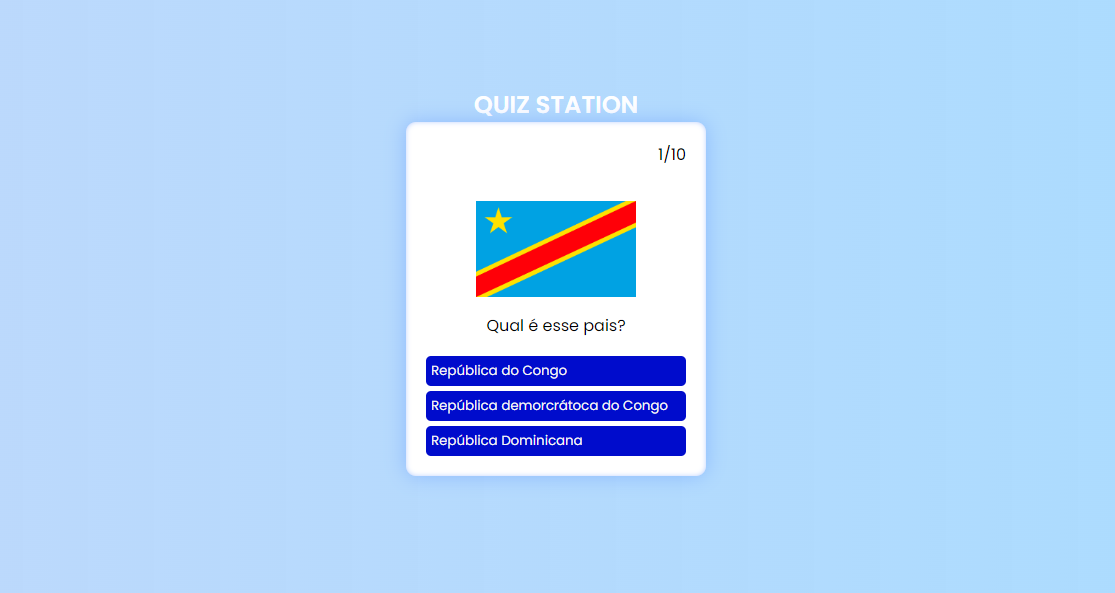
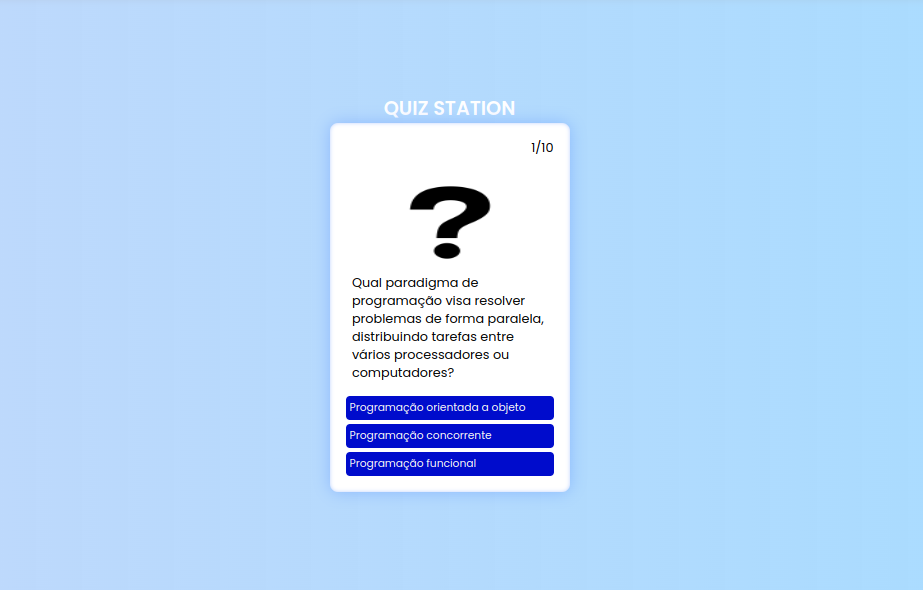
Final Project

Changed region(s): [[0.3337, 0.1525, 0.6371, 0.8542]]

diff --git a/mocks/questions.js b/mocks/questions.js
@@ -1,108 +1,108 @@
 export default [
     {
-        imageUrl: "https://external-content.duckduckgo.com/iu/?u=https%3A%2F%2Fwww.worldatlas.com%2Fimg%2Fflag%2Fcd-flag.jpg&f=1&nofb=1&ipt=be5a722e93254a884f299d0f88c7fded20310a6f4d112042d4ceccd46a54658c&ipo=images",
-        question: "Qual é esse pais?",
+        imageUrl: "https://creazilla-store.fra1.digitaloceanspaces.com/emojis/46353/question-mark-emoji-clipart-md.png",
+        question: "Qual paradigma de programação visa resolver problemas de forma paralela, distribuindo tarefas entre vários processadores ou computadores?",
         answers: [
-            {option: "República do Congo", correct:false},
-            {option: "República demorcrátoca do Congo", correct:true},
-            {option: "República Dominicana", correct:false},
+            {option: "Programação orientada a objeto", correct:false},
+            {option: "Programação concorrente", correct:true},
+            {option: "Programação funcional", correct:false},
         ],
     },
 
     {
-        imageUrl: "https://external-content.duckduckgo.com/iu/?u=https%3A%2F%2Fcdn.britannica.com%2F77%2F7177-050-246CAF00%2FFlag-Burundi.jpg&f=1&nofb=1&ipt=f5b624e2e3538855cc103bff78f9f443e329ab182e2b81206f06b2d541711ed3&ipo=images",
-        question: "Qual é esse pais?",
+        imageUrl: "https://creazilla-store.fra1.digitaloceanspaces.com/emojis/46353/question-mark-emoji-clipart-md.png",
+        question: "Qual linguagem de programação é considerada a primeira linguagem de alto nível?",
         answers: [
-            {option: "Eritreia", correct:false},
-            {option: "Jamaica", correct:false},
-            {option: "Burundi", correct:true},
+            {option: "Ada", correct:false},
+            {option: "Plankalkül", correct:false},
+            {option: "FORTRAN", correct:true},
         ],
     },
     
     {
-        imageUrl: "https://external-content.duckduckgo.com/iu/?u=https%3A%2F%2Fflagpedia.net%2Fdata%2Fflags%2Fw1600%2Frw.png&f=1&nofb=1&ipt=279fdef795c3ad3e1c995709e27d468f2023ddd6335d395f07afa926977984b6&ipo=images",
-        question: "Qual é esse pais?",
+        imageUrl: "https://creazilla-store.fra1.digitaloceanspaces.com/emojis/46353/question-mark-emoji-clipart-md.png",
+        question: "Qual linguagem de programação foi criada para atender às demandas da inteligência artificial e do aprendizado de máquina, combinando expressividade e poder computacional?",
         answers: [
-            {option: "Palau", correct:false},
-            {option: "Ruanda", correct:true},
-            {option: "Macedónia do Norte", correct:false},
+            {option: "R", correct:false},
+            {option: "Python", correct:true},
+            {option: "Prolog", correct:false},
         ],
         
     },
 
     {
-        imageUrl: "https://external-content.duckduckgo.com/iu/?u=https%3A%2F%2Fupload.wikimedia.org%2Fwikipedia%2Fcommons%2Fthumb%2F3%2F38%2FFlag_of_Tanzania.svg%2F1200px-Flag_of_Tanzania.svg.png&f=1&nofb=1&ipt=826587f2d005701229ca1e4ff4aa7917856477228cd76a71ac8c739e7965c986&ipo=images",
-        question: "Qual é esse pais?",
+        imageUrl: "https://creazilla-store.fra1.digitaloceanspaces.com/emojis/46353/question-mark-emoji-clipart-md.png",
+        question: "Qual foi a principal contribuição de Ada Lovelace para a programação?",
         answers: [
-            {option: "Tanzânia", correct:true},
-            {option: "Timor Leste", correct:false},
-            {option: "Trindade e Tobago", correct:false},
+            {option: "Escreveu o primeiro algoritmo para uma máquina de computação.", correct:true},
+            {option: "Criou a primeira linguagem de programação.", correct:false},
+            {option: "Popularizou o uso de cartões perfurados para entrada de dados.", correct:false},
         ],
         
     },
 
     {
-        imageUrl: "https://external-content.duckduckgo.com/iu/?u=http%3A%2F%2Fflags.fmcdn.net%2Fdata%2Fflags%2Fw1160%2Fvu.png&f=1&nofb=1&ipt=8ea1e827f35801944411b13dbaafd18c1abf64c493d0582c3499344c40b52b36&ipo=images",
-        question: "Qual é esse pais?",
+        imageUrl: "https://creazilla-store.fra1.digitaloceanspaces.com/emojis/46353/question-mark-emoji-clipart-md.png",
+        question: "Qual paradigma de programação enfatiza a manipulação de dados e a transformação de funções em outras funções?",
         answers: [
-            {option: "Eritreia", correct:false},
-            {option: "Guiana", correct:false},
-            {option: "Vanuatu", correct:true},
+            {option: "Programação orientada a objeto", correct:false},
+            {option: "Programação imperativa", correct:false},
+            {option: "Programação funcional", correct:true},
         ],
         
     },
 
     {
-        imageUrl: "https://external-content.duckduckgo.com/iu/?u=https%3A%2F%2Fflagsweb.com%2Fimages%2FPNG%2FFlag_of_Seychelles.png&f=1&nofb=1&ipt=63be07da53056d49b4bba4d65140d621ea5452fac47d46f4a63aa939da96a761&ipo=images",
-        question: "Qual é esse pais?",
+        imageUrl: "https://creazilla-store.fra1.digitaloceanspaces.com/emojis/46353/question-mark-emoji-clipart-md.png",
+        question: "Em qual década surgiram as primeiras linguagens de programação modernas, como FORTRAN e COBOL?",
         answers: [
-            {option: "Ilhas Marshal", correct:false},
-            {option: "Seychelles", correct:true},
-            {option: "Ilhas Salomão", correct:false},
+            {option: "Década de 1940", correct:false},
+            {option: "Década de 1950", correct:true},
+            {option: "Década de 1960", correct:false},
         ],
         
     },
 
     {
-        imageUrl: "https://external-content.duckduckgo.com/iu/?u=https%3A%2F%2Fwww.medianigeria.com%2Fwp-content%2Fuploads%2F2018%2F02%2FPhilippines-Flag-1067x534.png&f=1&nofb=1&ipt=5fe5b27fd6ce168a05aeec0b3a825f6d881db6feef6e28a467185f15e5273732&ipo=images",
-        question: "Qual é esse pais?",
+        imageUrl: "https://creazilla-store.fra1.digitaloceanspaces.com/emojis/46353/question-mark-emoji-clipart-md.png",
+        question: "Qual linguagem de script foi criada para adicionar interatividade a páginas da web e se tornou essencial para o desenvolvimento web moderno?",
         answers: [
-            {option: "Filipinas", correct:true},
-            {option: "Chile", correct:false},
-            {option: "Chéquia", correct:false},
+            {option: "JavaScript", correct:true},
+            {option: "C#", correct:false},
+            {option: "Python", correct:false},
         ],
         
     },
 
     {
-        imageUrl: "https://external-content.duckduckgo.com/iu/?u=http%3A%2F%2Fs1.bwallpapers.com%2Fwallpapers%2F2014%2F05%2F29%2Fnicaragua-flag_121347854.jpg&f=1&nofb=1&ipt=6ed3272728256328752cf314d4fd9ecdbc2a5100290aaa5216d037d8ca73a343&ipo=images",
-        question: "Qual é esse pais?",
+        imageUrl: "https://creazilla-store.fra1.digitaloceanspaces.com/emojis/46353/question-mark-emoji-clipart-md.png",
+        question: "Qual paradigma de programação foi fundamental para o desenvolvimento de interfaces gráficas e sistemas orientados a objetos?",
         answers: [
-            {option: "Nicarágua", correct:true},
-            {option: "Micronésia", correct:false},
-            {option: "Somália", correct:false},
+            {option: "Programação orientada a objetos", correct:true},
+            {option: "Programação funcional", correct:false},
+            {option: "Programação estruturada", correct:false},
         ],
         
     },
 
     {
-        imageUrl: "https://external-content.duckduckgo.com/iu/?u=https%3A%2F%2Fpixelz.cc%2Fwp-content%2Fuploads%2F2018%2F11%2Fkiribati-flag-uhd-4k-wallpaper.jpg&f=1&nofb=1&ipt=6af857ec575dd1f4cc022f9a192264f0dfdf48f17000c62015bca9accb66c140&ipo=images",
-        question: "Qual é esse pais?",
+        imageUrl: "https://creazilla-store.fra1.digitaloceanspaces.com/emojis/46353/question-mark-emoji-clipart-md.png",
+        question: "Qual década foi marcada pelo desenvolvimento de linguagens como C, C++ e Java, que se tornaram populares para programação de sistemas e aplicações?",
         answers: [
-            {option: "Jordânia", correct:false},
-            {option: "Gâmbia", correct:false},
-            {option: "Kiribati", correct:true},
+            {option: "Década de 1970", correct:false},
+            {option: "Década de 1990", correct:false},
+            {option: "Década de 1980", correct:true},
         ],
         
     },
 
     {
-        imageUrl: "https://external-content.duckduckgo.com/iu/?u=https%3A%2F%2Fwww.infoescola.com%2Fwp-content%2Fuploads%2F2017%2F04%2Fgabao-bandeira.png&f=1&nofb=1&ipt=cd8ea53b70a9bf6f0f58efb98e04f69a3c120d1ddb4b89844e8a84afeba52292&ipo=images",
-        question: "Qual é esse pais?",
+        imageUrl: "https://creazilla-store.fra1.digitaloceanspaces.com/emojis/46353/question-mark-emoji-clipart-md.png",
+        question: "Qual linguagem de programação foi criada para facilitar a manipulação de listas e estruturas de dados em árvores?",
         answers: [
-            {option: "Gabão", correct:true},
-            {option: "Ucrânia", correct:false},
-            {option: "Etiópia", correct:false},
+            {option: "LISP", correct:true},
+            {option: "C", correct:false},
+            {option: "Java", correct:false},
         ],
         
     },
